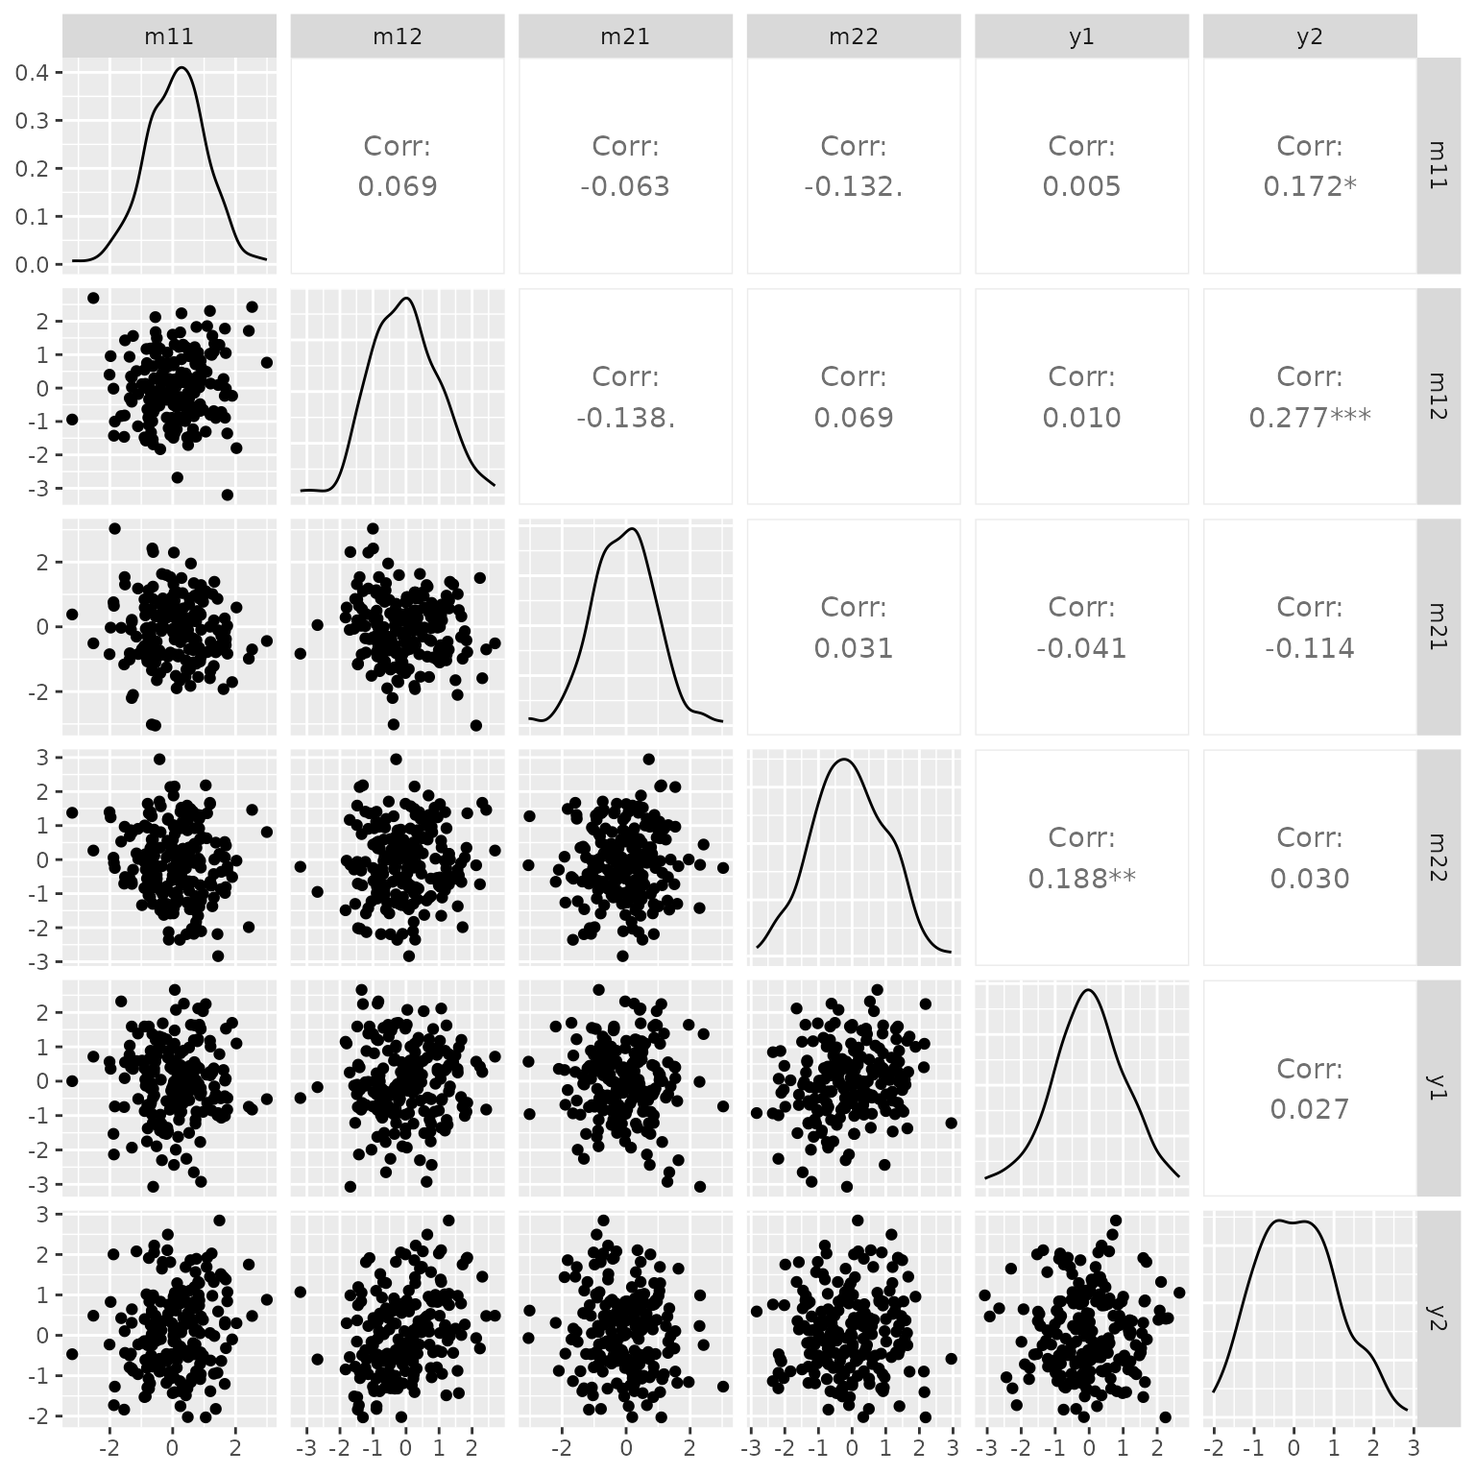
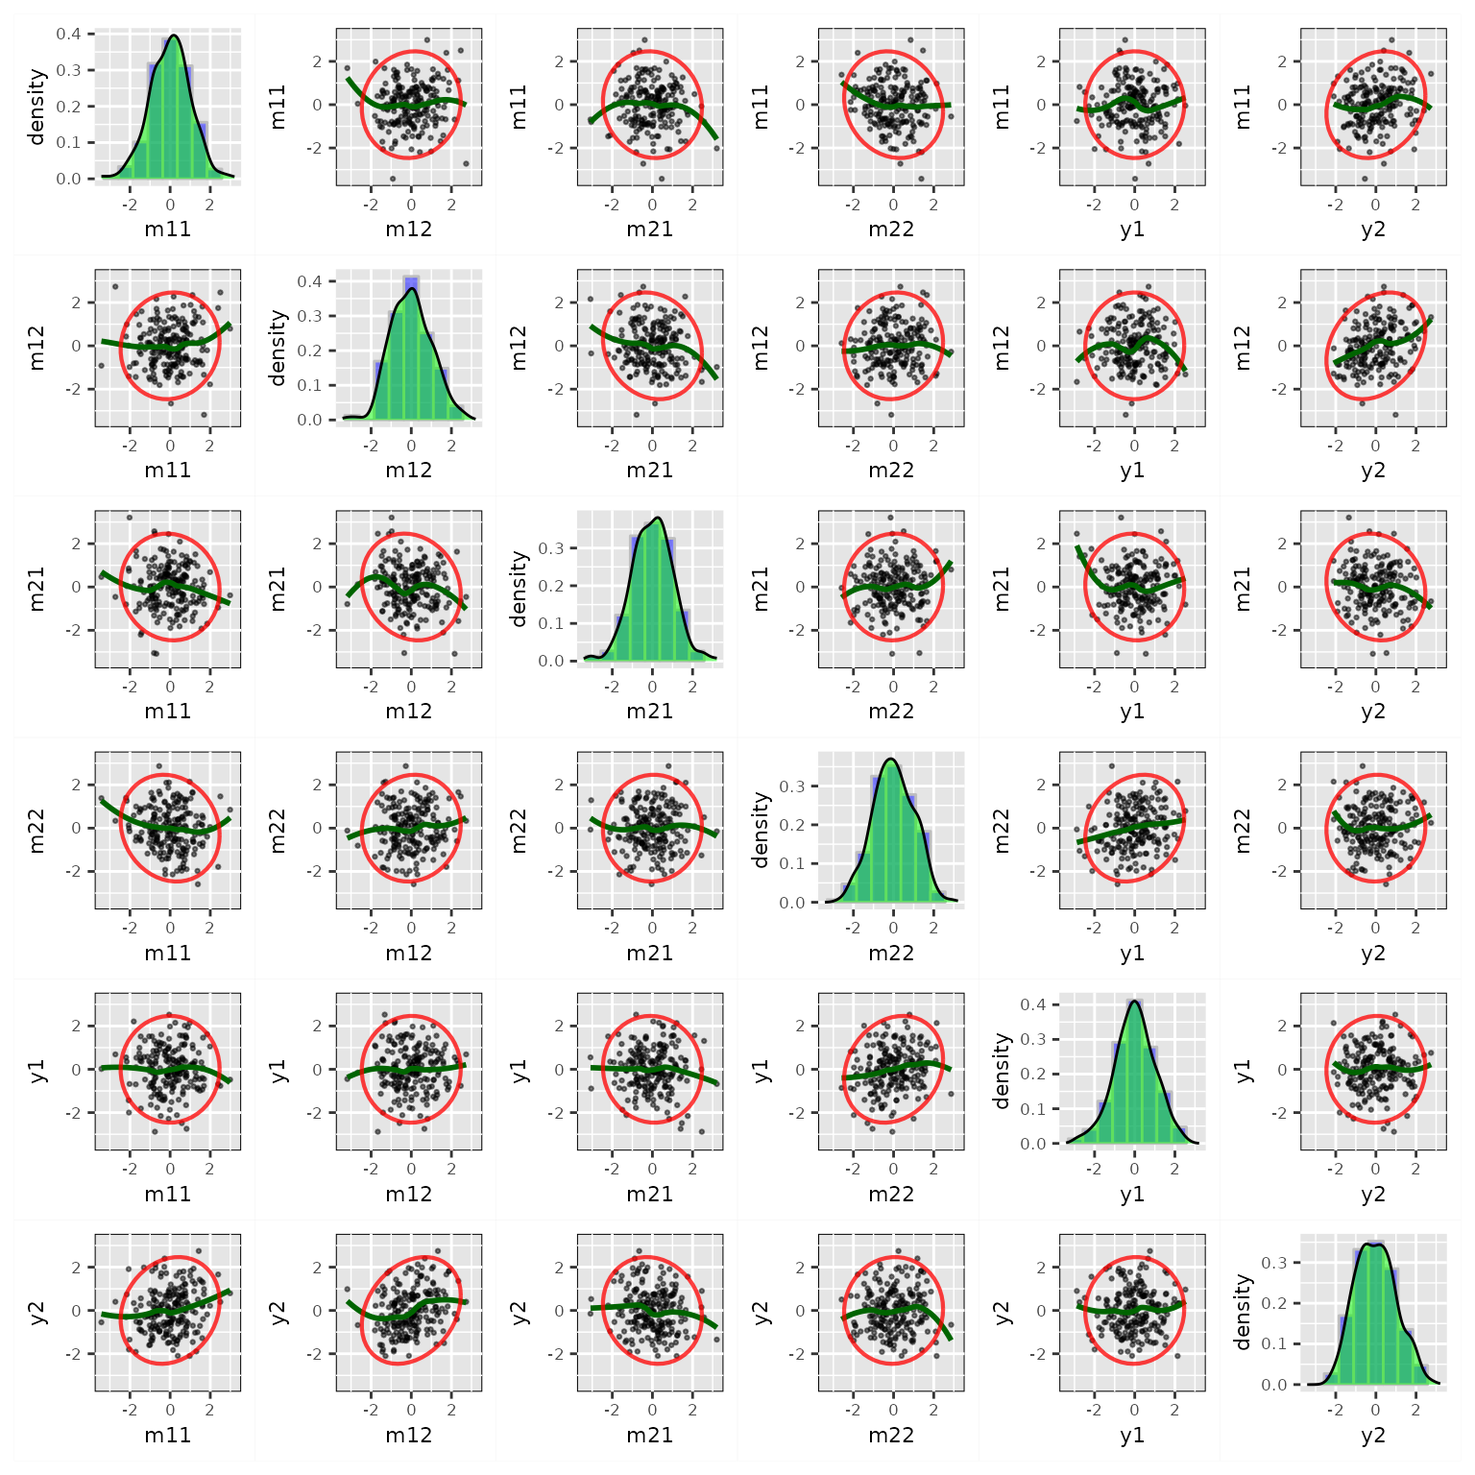
Deploying to gh-pages from @ sfcheung/semdplot@a95445128ebafcde6b53b99d656d7782438fc6f0 🚀

diff --git a/articles/semdplot.html b/articles/semdplot.html
@@ -26,7 +26,7 @@
     
     <a class="navbar-brand me-2" href="../index.html">semdplot</a>
 
-    <small class="nav-text text-muted me-auto" data-bs-toggle="tooltip" data-bs-placement="bottom" title="">0.0.0.9001</small>
+    <small class="nav-text text-muted me-auto" data-bs-toggle="tooltip" data-bs-placement="bottom" title="">0.0.0.9002</small>
 
     
     <button class="navbar-toggler" type="button" data-bs-toggle="collapse" data-bs-target="#navbar" aria-controls="navbar" aria-expanded="false" aria-label="Toggle navigation">
@@ -87,7 +87,7 @@
 <span><span class="va">dat</span> <span class="op">&lt;-</span> <span class="va">data_pa</span></span>
 <span></span>
 <span><span class="kw"><a href="https://rdrr.io/r/base/library.html" class="external-link">library</a></span><span class="op">(</span><span class="va"><a href="https://lavaan.ugent.be" class="external-link">lavaan</a></span><span class="op">)</span></span>
-<span><span class="co">#&gt; This is lavaan 0.6-12</span></span>
+<span><span class="co">#&gt; This is lavaan 0.6-13</span></span>
 <span><span class="co">#&gt; lavaan is FREE software! Please report any bugs.</span></span>
 <span><span class="va">mod</span> <span class="op">&lt;-</span></span>
 <span><span class="st">"</span></span>
@@ -102,7 +102,7 @@
 <span><span class="st">"</span></span>
 <span><span class="va">fit</span> <span class="op">&lt;-</span> <span class="fu"><a href="https://rdrr.io/pkg/lavaan/man/sem.html" class="external-link">sem</a></span><span class="op">(</span><span class="va">mod</span>, <span class="va">dat</span><span class="op">)</span></span>
 <span><span class="fu"><a href="https://rdrr.io/r/base/summary.html" class="external-link">summary</a></span><span class="op">(</span><span class="va">fit</span>, fit.measures <span class="op">=</span> <span class="cn">TRUE</span><span class="op">)</span></span>
-<span><span class="co">#&gt; lavaan 0.6-12 ended normally after 7 iterations</span></span>
+<span><span class="co">#&gt; lavaan 0.6.13 ended normally after 7 iterations</span></span>
 <span><span class="co">#&gt; </span></span>
 <span><span class="co">#&gt;   Estimator                                         ML</span></span>
 <span><span class="co">#&gt;   Optimization method                           NLMINB</span></span>
@@ -134,14 +134,15 @@
 <span><span class="co">#&gt;                                                       </span></span>
 <span><span class="co">#&gt;   Akaike (AIC)                                3472.315</span></span>
 <span><span class="co">#&gt;   Bayesian (BIC)                              3561.370</span></span>
-<span><span class="co">#&gt;   Sample-size adjusted Bayesian (BIC)         3475.831</span></span>
+<span><span class="co">#&gt;   Sample-size adjusted Bayesian (SABIC)       3475.831</span></span>
 <span><span class="co">#&gt; </span></span>
 <span><span class="co">#&gt; Root Mean Square Error of Approximation:</span></span>
 <span><span class="co">#&gt; </span></span>
 <span><span class="co">#&gt;   RMSEA                                          0.128</span></span>
 <span><span class="co">#&gt;   90 Percent confidence interval - lower         0.099</span></span>
 <span><span class="co">#&gt;   90 Percent confidence interval - upper         0.158</span></span>
-<span><span class="co">#&gt;   P-value RMSEA &lt;= 0.05                          0.000</span></span>
+<span><span class="co">#&gt;   P-value H_0: RMSEA &lt;= 0.050                    0.000</span></span>
+<span><span class="co">#&gt;   P-value H_0: RMSEA &gt;= 0.080                    0.996</span></span>
 <span><span class="co">#&gt; </span></span>
 <span><span class="co">#&gt; Standardized Root Mean Square Residual:</span></span>
 <span><span class="co">#&gt; </span></span>
@@ -300,10 +301,7 @@ method can produce only plots for residuals of endogenous variables:</p>
 <div class="sourceCode" id="cb10"><pre class="downlit sourceCode r">
 <code class="sourceCode R"><span><span class="va">p</span> <span class="op">&lt;-</span> <span class="fu"><a href="https://rdrr.io/r/graphics/plot.default.html" class="external-link">plot</a></span><span class="op">(</span><span class="va">fit_res_add</span>,</span>
 <span>          what <span class="op">=</span> <span class="st">"residual"</span><span class="op">)</span></span>
-<span><span class="co">#&gt; Registered S3 method overwritten by 'GGally':</span></span>
-<span><span class="co">#&gt;   method from   </span></span>
-<span><span class="co">#&gt;   +.gg   ggplot2</span></span>
-<span><span class="fu"><a href="https://rdrr.io/r/base/print.html" class="external-link">print</a></span><span class="op">(</span><span class="va">p</span><span class="op">)</span></span></code></pre></div>
+<span><span class="fu"><a href="https://rdrr.io/r/graphics/plot.default.html" class="external-link">plot</a></span><span class="op">(</span><span class="va">p</span><span class="op">)</span></span></code></pre></div>
 <p><img src="semdplot_files/figure-html/unnamed-chunk-10-1.png" width="768"></p>
 <p>Users can also use <code>y_names</code> to select only some of the
 endogenous variables for the plot:</p>

diff --git a/reference/data_pa.html b/reference/data_pa.html
@@ -10,7 +10,7 @@
     
     <a class="navbar-brand me-2" href="../index.html">semdplot</a>
 
-    <small class="nav-text text-muted me-auto" data-bs-toggle="tooltip" data-bs-placement="bottom" title="">0.0.0.9001</small>
+    <small class="nav-text text-muted me-auto" data-bs-toggle="tooltip" data-bs-placement="bottom" title="">0.0.0.9002</small>
 
     
     <button class="navbar-toggler" type="button" data-bs-toggle="collapse" data-bs-target="#navbar" aria-controls="navbar" aria-expanded="false" aria-label="Toggle navigation">
@@ -96,7 +96,7 @@ and 10 variables:</p><dl><dt>m11</dt>
     <div class="section level2">
     <h2 id="ref-examples">Examples<a class="anchor" aria-label="anchor" href="#ref-examples"></a></h2>
     <div class="sourceCode"><pre class="sourceCode r"><code><span class="r-in"><span><span class="kw"><a href="https://rdrr.io/r/base/library.html" class="external-link">library</a></span><span class="op">(</span><span class="va"><a href="https://lavaan.ugent.be" class="external-link">lavaan</a></span><span class="op">)</span></span></span>
-<span class="r-msg co"><span class="r-pr">#&gt;</span> This is lavaan 0.6-12</span>
+<span class="r-msg co"><span class="r-pr">#&gt;</span> This is lavaan 0.6-13</span>
 <span class="r-msg co"><span class="r-pr">#&gt;</span> lavaan is FREE software! Please report any bugs.</span>
 <span class="r-in"><span><span class="fu"><a href="https://rdrr.io/r/utils/data.html" class="external-link">data</a></span><span class="op">(</span><span class="va">data_pa</span><span class="op">)</span></span></span>
 <span class="r-in"><span><span class="va">mod</span> <span class="op">&lt;-</span></span></span>
@@ -112,7 +112,7 @@ and 10 variables:</p><dl><dt>m11</dt>
 <span class="r-in"><span><span class="st">"</span></span></span>
 <span class="r-in"><span><span class="va">fit</span> <span class="op">&lt;-</span> <span class="fu"><a href="https://rdrr.io/pkg/lavaan/man/sem.html" class="external-link">sem</a></span><span class="op">(</span><span class="va">mod</span>, <span class="va">data_pa</span><span class="op">)</span></span></span>
 <span class="r-in"><span><span class="fu"><a href="https://rdrr.io/r/base/summary.html" class="external-link">summary</a></span><span class="op">(</span><span class="va">fit</span>, fit.measures <span class="op">=</span> <span class="cn">TRUE</span><span class="op">)</span></span></span>
-<span class="r-out co"><span class="r-pr">#&gt;</span> lavaan 0.6-12 ended normally after 7 iterations</span>
+<span class="r-out co"><span class="r-pr">#&gt;</span> lavaan 0.6.13 ended normally after 7 iterations</span>
 <span class="r-out co"><span class="r-pr">#&gt;</span> </span>
 <span class="r-out co"><span class="r-pr">#&gt;</span>   Estimator                                         ML</span>
 <span class="r-out co"><span class="r-pr">#&gt;</span>   Optimization method                           NLMINB</span>
@@ -144,14 +144,15 @@ and 10 variables:</p><dl><dt>m11</dt>
 <span class="r-out co"><span class="r-pr">#&gt;</span>                                                       </span>
 <span class="r-out co"><span class="r-pr">#&gt;</span>   Akaike (AIC)                                3472.315</span>
 <span class="r-out co"><span class="r-pr">#&gt;</span>   Bayesian (BIC)                              3561.370</span>
-<span class="r-out co"><span class="r-pr">#&gt;</span>   Sample-size adjusted Bayesian (BIC)         3475.831</span>
+<span class="r-out co"><span class="r-pr">#&gt;</span>   Sample-size adjusted Bayesian (SABIC)       3475.831</span>
 <span class="r-out co"><span class="r-pr">#&gt;</span> </span>
 <span class="r-out co"><span class="r-pr">#&gt;</span> Root Mean Square Error of Approximation:</span>
 <span class="r-out co"><span class="r-pr">#&gt;</span> </span>
 <span class="r-out co"><span class="r-pr">#&gt;</span>   RMSEA                                          0.128</span>
 <span class="r-out co"><span class="r-pr">#&gt;</span>   90 Percent confidence interval - lower         0.099</span>
 <span class="r-out co"><span class="r-pr">#&gt;</span>   90 Percent confidence interval - upper         0.158</span>
-<span class="r-out co"><span class="r-pr">#&gt;</span>   P-value RMSEA &lt;= 0.05                          0.000</span>
+<span class="r-out co"><span class="r-pr">#&gt;</span>   P-value H_0: RMSEA &lt;= 0.050                    0.000</span>
+<span class="r-out co"><span class="r-pr">#&gt;</span>   P-value H_0: RMSEA &gt;= 0.080                    0.996</span>
 <span class="r-out co"><span class="r-pr">#&gt;</span> </span>
 <span class="r-out co"><span class="r-pr">#&gt;</span> Standardized Root Mean Square Residual:</span>
 <span class="r-out co"><span class="r-pr">#&gt;</span> </span>

diff --git a/reference/plot.semdplot_residuals.html b/reference/plot.semdplot_residuals.html
@@ -16,7 +16,7 @@ on the output of casewise_residuals()."><!-- mathjax --><script src="https://cdn
     
     <a class="navbar-brand me-2" href="../index.html">semdplot</a>
 
-    <small class="nav-text text-muted me-auto" data-bs-toggle="tooltip" data-bs-placement="bottom" title="">0.0.0.9001</small>
+    <small class="nav-text text-muted me-auto" data-bs-toggle="tooltip" data-bs-placement="bottom" title="">0.0.0.9002</small>
 
     
     <button class="navbar-toggler" type="button" data-bs-toggle="collapse" data-bs-target="#navbar" aria-controls="navbar" aria-expanded="false" aria-label="Toggle navigation">
@@ -84,6 +84,7 @@ on the output of <code><a href="casewise_residuals.html">casewise_residuals()</a
 <span>  resid_hist_aes <span class="op">=</span> <span class="fu"><a href="https://rdrr.io/r/base/list.html" class="external-link">list</a></span><span class="op">(</span><span class="op">)</span>,</span>
 <span>  resid_density_aes <span class="op">=</span> <span class="fu"><a href="https://rdrr.io/r/base/list.html" class="external-link">list</a></span><span class="op">(</span><span class="op">)</span>,</span>
 <span>  resid_theme_aes <span class="op">=</span> <span class="fu"><a href="https://rdrr.io/r/base/list.html" class="external-link">list</a></span><span class="op">(</span><span class="op">)</span>,</span>
+<span>  resid_ellipse_aes <span class="op">=</span> <span class="fu"><a href="https://rdrr.io/r/base/list.html" class="external-link">list</a></span><span class="op">(</span><span class="op">)</span>,</span>
 <span>  text_nopath <span class="op">=</span> <span class="st">"--"</span>,</span>
 <span>  output_type <span class="op">=</span> <span class="fu"><a href="https://rdrr.io/r/base/c.html" class="external-link">c</a></span><span class="op">(</span><span class="st">"plot"</span>, <span class="st">"list"</span><span class="op">)</span>,</span>
 <span>  <span class="va">...</span></span>
@@ -217,6 +218,12 @@ Use to modify the default aesthetics of the density plot.</p></dd>
 <code><a href="https://ggplot2.tidyverse.org/reference/theme.html" class="external-link">ggplot2::theme()</a></code> for the plots of residuals.
 Used to modify the default
 theme of the plot of residual.</p></dd>
+
+
+<dt>resid_ellipse_aes</dt>
+<dd><p>A list of arguments for
+<code><a href="https://ggplot2.tidyverse.org/reference/stat_ellipse.html" class="external-link">ggplot2::stat_ellipse()</a></code> for the plot of residuals.
+Use to modify the default aesthetics of the ellipse.</p></dd>
 
 
 <dt>text_nopath</dt>

diff --git a/index.html b/index.html
@@ -30,7 +30,7 @@
     
     <a class="navbar-brand me-2" href="index.html">semdplot</a>
 
-    <small class="nav-text text-muted me-auto" data-bs-toggle="tooltip" data-bs-placement="bottom" title="">0.0.0.9001</small>
+    <small class="nav-text text-muted me-auto" data-bs-toggle="tooltip" data-bs-placement="bottom" title="">0.0.0.9002</small>
 
     
     <button class="navbar-toggler" type="button" data-bs-toggle="collapse" data-bs-target="#navbar" aria-controls="navbar" aria-expanded="false" aria-label="Toggle navigation">
@@ -67,7 +67,7 @@
 </nav><div class="container template-home">
 <div class="row">
   <main id="main" class="col-md-9">
-<p>(Version 0.0.9001, updated on 2023-01-08, <a href="https://sfcheung.github.io/semdplot/news/index.html">release history</a>)</p>
+<p>(Version 0.0.9002, updated on 2023-01-11, <a href="https://sfcheung.github.io/semdplot/news/index.html">release history</a>)</p>
 <div class="section level1">
 <div class="page-header"><h1 id="semdplot">semdplot<a class="anchor" aria-label="anchor" href="#semdplot"></a>
 </h1></div>
@@ -77,7 +77,10 @@
 <h1 id="status">Status<a class="anchor" aria-label="anchor" href="#status"></a>
 </h1>
 <p>This package is still <strong>experimental</strong>. Please do not install it for now.</p>
-<p>Nevertheless, suggestions are also welcomed:</p>
+<p>If you want to try this experimental work-in-progress version, you can install it:</p>
+<div class="sourceCode" id="cb1"><pre class="downlit sourceCode r">
+<code class="sourceCode R"><span><span class="fu">remotes</span><span class="fu">::</span><span class="fu">install_github</span><span class="op">(</span><span class="st">"sfcheung/semdplot"</span><span class="op">)</span></span></code></pre></div>
+<p>Suggestions are also welcomed:</p>
 <p><a href="https://github.com/sfcheung/semdplot/issues" class="external-link uri">https://github.com/sfcheung/semdplot/issues</a></p>
 </div>
 

diff --git a/news/index.html b/news/index.html
@@ -10,7 +10,7 @@
     
     <a class="navbar-brand me-2" href="../index.html">semdplot</a>
 
-    <small class="nav-text text-muted me-auto" data-bs-toggle="tooltip" data-bs-placement="bottom" title="">0.0.0.9001</small>
+    <small class="nav-text text-muted me-auto" data-bs-toggle="tooltip" data-bs-placement="bottom" title="">0.0.0.9002</small>
 
     
     <button class="navbar-toggler" type="button" data-bs-toggle="collapse" data-bs-target="#navbar" aria-controls="navbar" aria-expanded="false" aria-label="Toggle navigation">
@@ -48,8 +48,10 @@
     </div>
 
     <div class="section level2">
-<h2 class="pkg-version" data-toc-text="0.0.0.9001" id="semdplot-0009001">semdplot 0.0.0.9001<a class="anchor" aria-label="anchor" href="#semdplot-0009001"></a></h2>
-<ul><li>WIP. Updates to be added.</li>
+<h2 class="pkg-version" data-toc-text="0.0.0.9002" id="semdplot-0009002">semdplot 0.0.0.9002<a class="anchor" aria-label="anchor" href="#semdplot-0009002"></a></h2>
+<ul><li><p><strong>Work-In-Progress!</strong></p></li>
+<li><p>The first crude draft, as a proof-of-concept. (0.0.0.9001)</p></li>
+<li><p>Remove <code>GGally</code> from dependence and <code>plot_resid()</code>. Plots of residuals are done internally using <code>ggplot2</code>. (0.0.0.9002)</p></li>
 </ul></div>
   </main></div>
 

diff --git a/authors.html b/authors.html
@@ -10,7 +10,7 @@
     
     <a class="navbar-brand me-2" href="index.html">semdplot</a>
 
-    <small class="nav-text text-muted me-auto" data-bs-toggle="tooltip" data-bs-placement="bottom" title="">0.0.0.9001</small>
+    <small class="nav-text text-muted me-auto" data-bs-toggle="tooltip" data-bs-placement="bottom" title="">0.0.0.9002</small>
 
     
     <button class="navbar-toggler" type="button" data-bs-toggle="collapse" data-bs-target="#navbar" aria-controls="navbar" aria-expanded="false" aria-label="Toggle navigation">
@@ -69,13 +69,13 @@
 
       <p>Cheung S, Lai M, Sun R (2023).
 <em>semdplot: Diagnostic Plots for Structural Equation Models</em>.
-R package version 0.0.0.9001. 
+R package version 0.0.0.9002. 
 </p>
       <pre>@Manual{,
   title = {semdplot: Diagnostic Plots for Structural Equation Models},
   author = {Shu Fai Cheung and Mark Hok Chio Lai and Rongwei Sun},
   year = {2023},
-  note = {R package version 0.0.0.9001},
+  note = {R package version 0.0.0.9002},
 }</pre>
     </div>
   </main><aside class="col-md-3"><nav id="toc"><h2>On this page</h2>

diff --git a/reference/index.html b/reference/index.html
@@ -10,7 +10,7 @@
     
     <a class="navbar-brand me-2" href="../index.html">semdplot</a>
 
-    <small class="nav-text text-muted me-auto" data-bs-toggle="tooltip" data-bs-placement="bottom" title="">0.0.0.9001</small>
+    <small class="nav-text text-muted me-auto" data-bs-toggle="tooltip" data-bs-placement="bottom" title="">0.0.0.9002</small>
 
     
     <button class="navbar-toggler" type="button" data-bs-toggle="collapse" data-bs-target="#navbar" aria-controls="navbar" aria-expanded="false" aria-label="Toggle navigation">
@@ -67,11 +67,6 @@
           <code><a href="plot.semdplot_residuals.html">plot(<i>&lt;semdplot_residuals&gt;</i>)</a></code> 
         </dt>
         <dd>Residual Plot Matrix</dd>
-      </dl><dl><dt>
-          
-          <code><a href="plot_resid.html">plot_resid()</a></code> 
-        </dt>
-        <dd>Residual-Only Plot Matrix</dd>
       </dl></div><div class="section level2">
       <h2 id="others">Others<a class="anchor" aria-label="anchor" href="#others"></a></h2>
       

diff --git a/reference/casewise_residuals.html b/reference/casewise_residuals.html
@@ -12,7 +12,7 @@ to be used by the plot functions."><!-- mathjax --><script src="https://cdnjs.cl
     
     <a class="navbar-brand me-2" href="../index.html">semdplot</a>
 
-    <small class="nav-text text-muted me-auto" data-bs-toggle="tooltip" data-bs-placement="bottom" title="">0.0.0.9001</small>
+    <small class="nav-text text-muted me-auto" data-bs-toggle="tooltip" data-bs-placement="bottom" title="">0.0.0.9002</small>
 
     
     <button class="navbar-toggler" type="button" data-bs-toggle="collapse" data-bs-target="#navbar" aria-controls="navbar" aria-expanded="false" aria-label="Toggle navigation">

diff --git a/reference/y_residuals.html b/reference/y_residuals.html
@@ -12,7 +12,7 @@ the output of casewise_residuals()."><!-- mathjax --><script src="https://cdnjs.
     
     <a class="navbar-brand me-2" href="../index.html">semdplot</a>
 
-    <small class="nav-text text-muted me-auto" data-bs-toggle="tooltip" data-bs-placement="bottom" title="">0.0.0.9001</small>
+    <small class="nav-text text-muted me-auto" data-bs-toggle="tooltip" data-bs-placement="bottom" title="">0.0.0.9002</small>
 
     
     <button class="navbar-toggler" type="button" data-bs-toggle="collapse" data-bs-target="#navbar" aria-controls="navbar" aria-expanded="false" aria-label="Toggle navigation">

diff --git a/404.html b/404.html
@@ -24,7 +24,7 @@
     
     <a class="navbar-brand me-2" href="https://sfcheung.github.io/semdplot/index.html">semdplot</a>
 
-    <small class="nav-text text-muted me-auto" data-bs-toggle="tooltip" data-bs-placement="bottom" title="">0.0.0.9001</small>
+    <small class="nav-text text-muted me-auto" data-bs-toggle="tooltip" data-bs-placement="bottom" title="">0.0.0.9002</small>
 
     
     <button class="navbar-toggler" type="button" data-bs-toggle="collapse" data-bs-target="#navbar" aria-controls="navbar" aria-expanded="false" aria-label="Toggle navigation">

diff --git a/articles/casewise_residuals.html b/articles/casewise_residuals.html
@@ -26,7 +26,7 @@
     
     <a class="navbar-brand me-2" href="../index.html">semdplot</a>
 
-    <small class="nav-text text-muted me-auto" data-bs-toggle="tooltip" data-bs-placement="bottom" title="">0.0.0.9001</small>
+    <small class="nav-text text-muted me-auto" data-bs-toggle="tooltip" data-bs-placement="bottom" title="">0.0.0.9002</small>
 
     
     <button class="navbar-toggler" type="button" data-bs-toggle="collapse" data-bs-target="#navbar" aria-controls="navbar" aria-expanded="false" aria-label="Toggle navigation">

diff --git a/articles/index.html b/articles/index.html
@@ -10,7 +10,7 @@
     
     <a class="navbar-brand me-2" href="../index.html">semdplot</a>
 
-    <small class="nav-text text-muted me-auto" data-bs-toggle="tooltip" data-bs-placement="bottom" title="">0.0.0.9001</small>
+    <small class="nav-text text-muted me-auto" data-bs-toggle="tooltip" data-bs-placement="bottom" title="">0.0.0.9002</small>
 
     
     <button class="navbar-toggler" type="button" data-bs-toggle="collapse" data-bs-target="#navbar" aria-controls="navbar" aria-expanded="false" aria-label="Toggle navigation">
